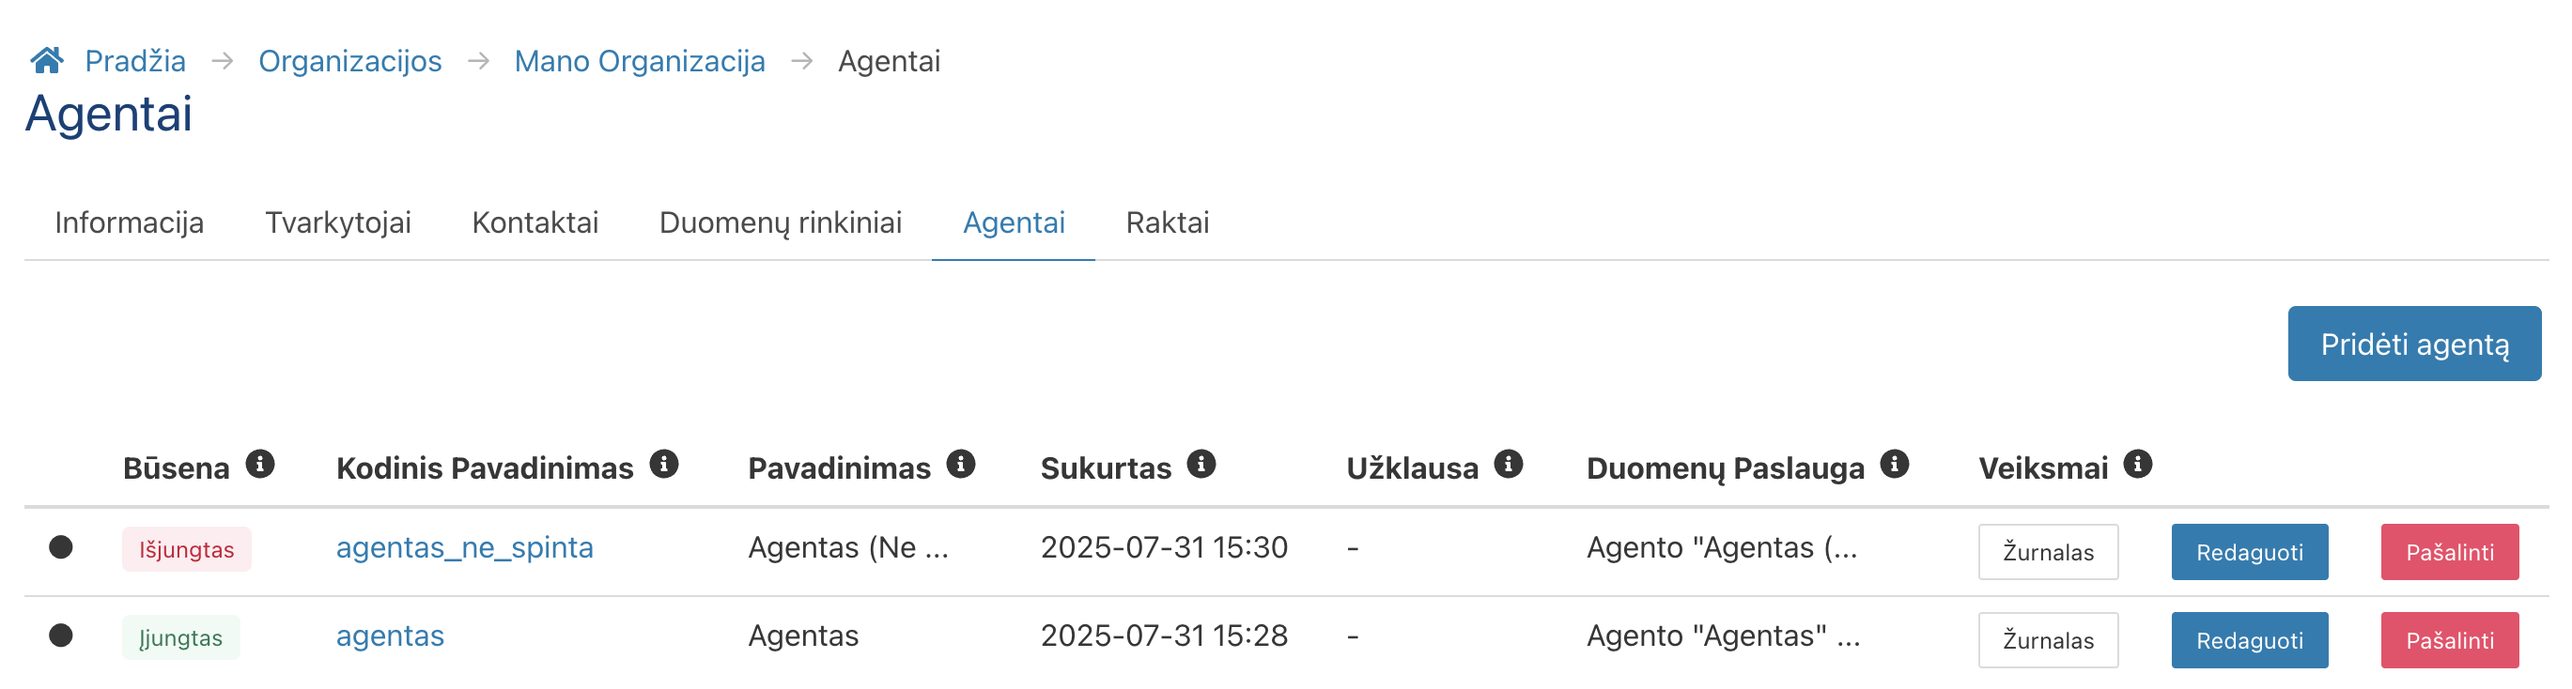
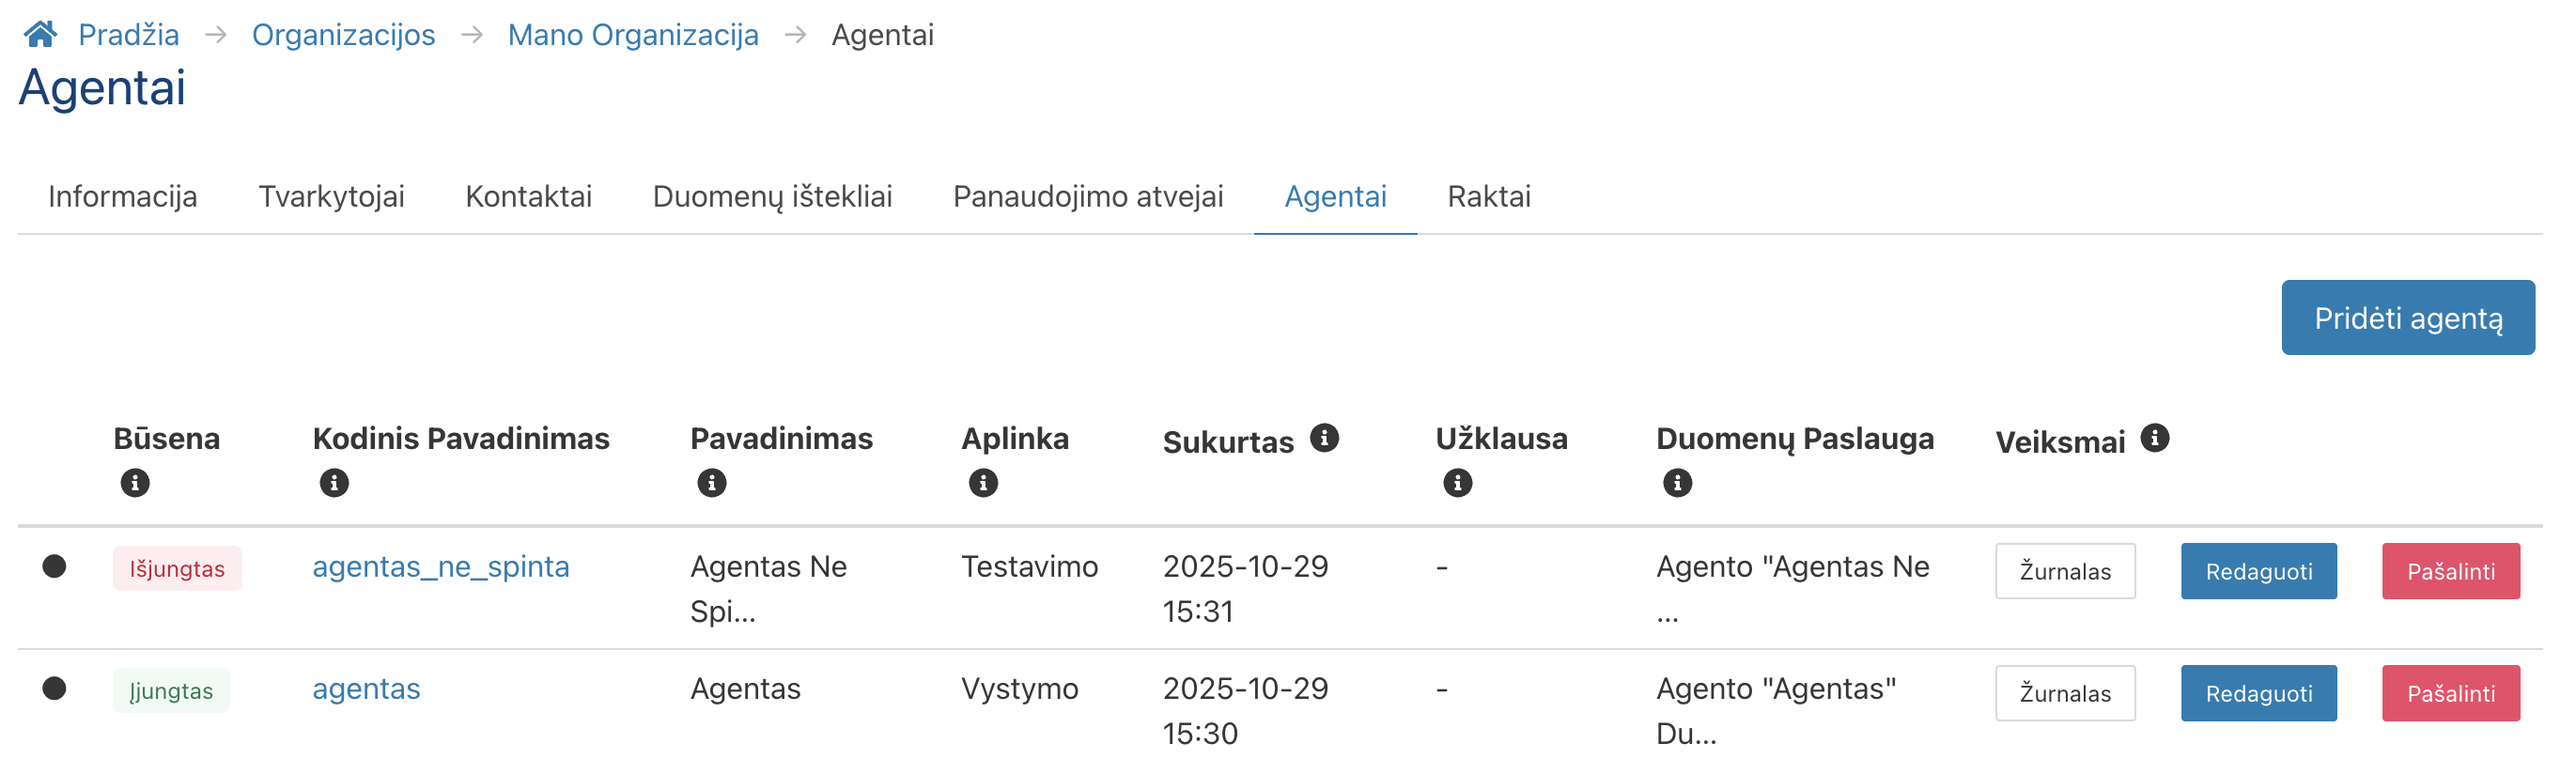
[1976]: update agent form documentation

diff --git a/vadovas/agentas.rst b/vadovas/agentas.rst
@@ -408,6 +408,25 @@ Formos laukai ir jų paaiškinimai
 
     - **Kita** – suteikiamas prieigos raktas. Likusi dalis priklauso sprendimo tiekėjui.
 
+**Duomenų paslauga**
+    Nurodo, kuriai duomenų paslaugai Agentas bus priskirtas. Jei nenurodyta, duomenų paslauga bus sukurta automatiškai.
+
+**Aplinka**
+    Nurodo, kurioje aplinkoje bus diegiamas Agentas. Galimos reikšmės:
+
+    - **Vystymo** – Agentas bus diegiamas vystymo aplinkoje.
+    - **Testavimo** – Agentas bus diegiamas testavimo aplinkoje.
+    - **Gamybinė** – Agentas bus diegiamas gamybinėje aplinkoje.
+
+**Agento adresas**
+    Nurodo Agento pasiekimą per URL arba IP adresą. Jei yra nurodytas vartų adresas, tada agento adresas yra vidinis adresas, kurį mato API vartai. Jei API vartai nenurodyti, tada yra nurodomas išorinis agento adresas.
+
+**Autorizacijos serverio adresas**
+    Nurodo autorizacijos serverio adresą, kuris bus naudojamas metaduomenų sinchronizacijai arba duomenų apsikeitimui.
+
+**API vartų serverio adresas**
+    Nurodo API vartų serverio adresą, kuris bus naudojamas metaduomenų sinchronizacijai arba duomenų apsikeitimui.
+
 **Agentas įjungtas**
     Nurodo, ar Agentas šiuo metu aktyvus.
 
@@ -451,6 +470,9 @@ Rodomi laukai ir jų reikšmės
 **Pavadinimas**
     Vartotojui matomas pavadinimas. Naudojamas kodiniam pavadinimui generuoti.
 
+**Aplinka**
+    Nurodo, kurioje aplinkoje Agentas bus diegiamas.
+
 **Sukurtas**
     Agento sukūrimo data.
 
@@ -458,7 +480,7 @@ Rodomi laukai ir jų reikšmės
     Paskutinės sinchronizacijos arba bandymo data.
 
 **Duomenų paslauga**
-    Kiekvienam Agentui automatiškai sukuriama susijusi duomenų paslauga, kuriai priskirti duomenų rinkiniai.
+    Kiekvienam Agentui automatiškai sukuriama susijusi duomenų paslauga arba nurodyta kuriant/redaguojant Agentą.
 
 **Veiksmai**
     Prie kiekvieno Agento pateikiami šie veiksmai:
@@ -486,11 +508,14 @@ Paaiškinimai apie laukų reikšmes
 **Pavadinimas**
     Vartotojui matomas pavadinimas.
 
+**Duomenų paslauga**
+    Duomenų paslauga, automatiškai sukuriama ir susiejama su Agentu arba nurodyta kuriant/redaguojant Agentą.
+
 **Kodinis pavadinimas**
     Unikalus identifikatorius, generuojamas sistemoje.
 
-**Servisas**
-    Duomenų paslauga, automatiškai sukuriama ir susiejama su Agentu.
+**Aplinka**
+    Aplinka, kurioje Agentas bus diegiamas.
 
 **Būsena**
     Nurodoma, ar Agentas įjungtas.
@@ -500,6 +525,9 @@ Paaiškinimai apie laukų reikšmes
 
     - **Spinta** – naudojama „Spintos“ sinchronizavimo logika.
     - **Kita** – nestandartinė implementacija, įgyvendinta sprendimo tiekėjo.
+
+**Agento adresas**
+    Agento pasiekimas per URL arba IP adresą.
 
 **Paskutinės sinchronizacijos rezultatas**
 
